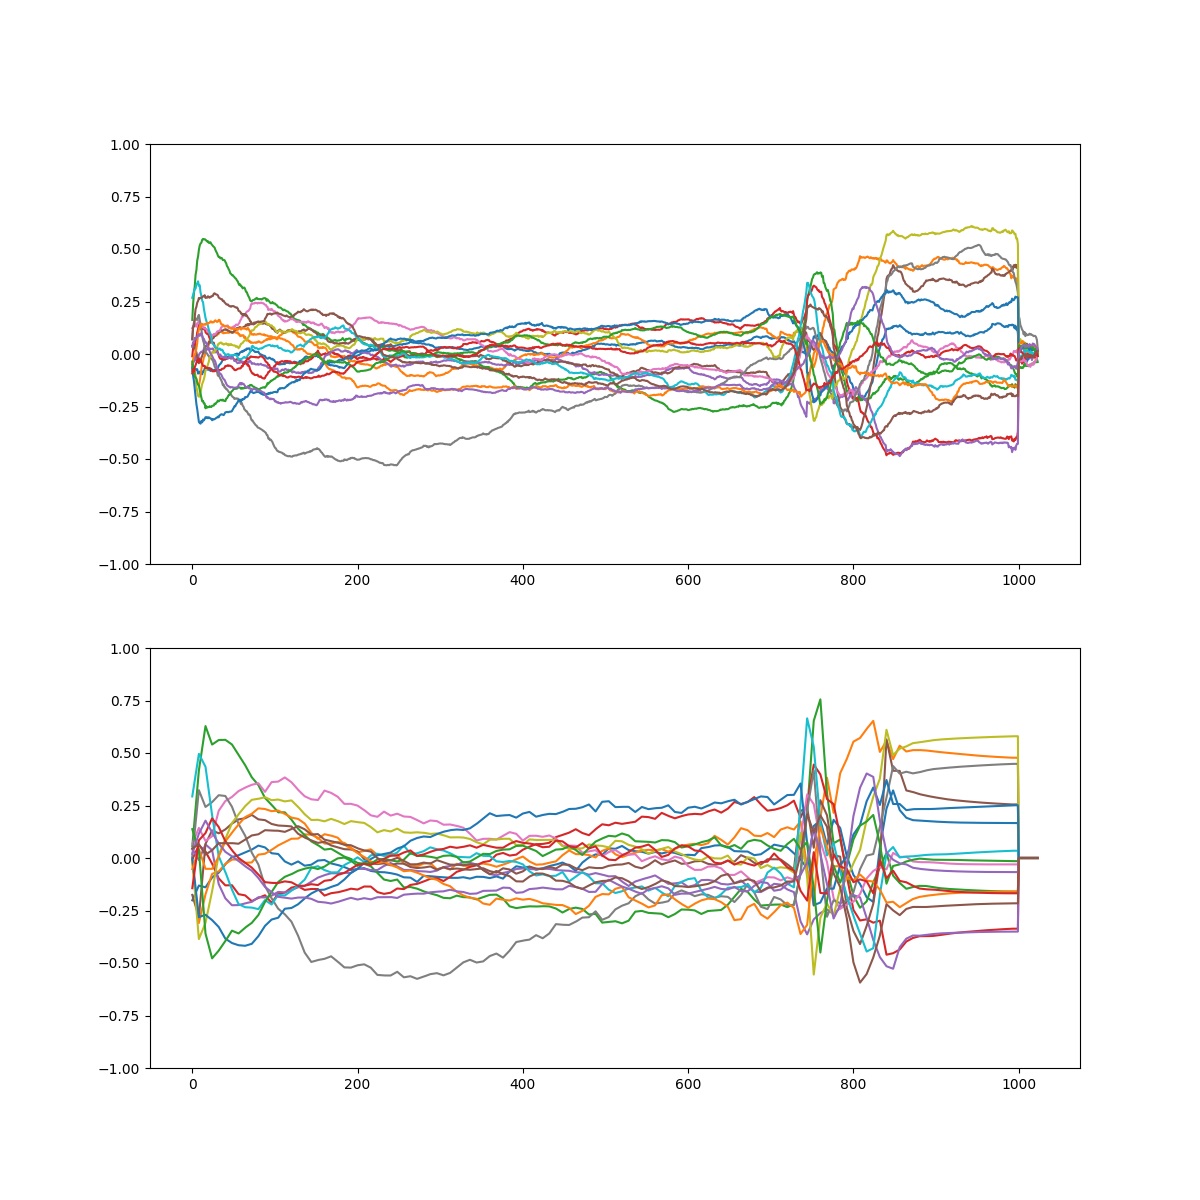
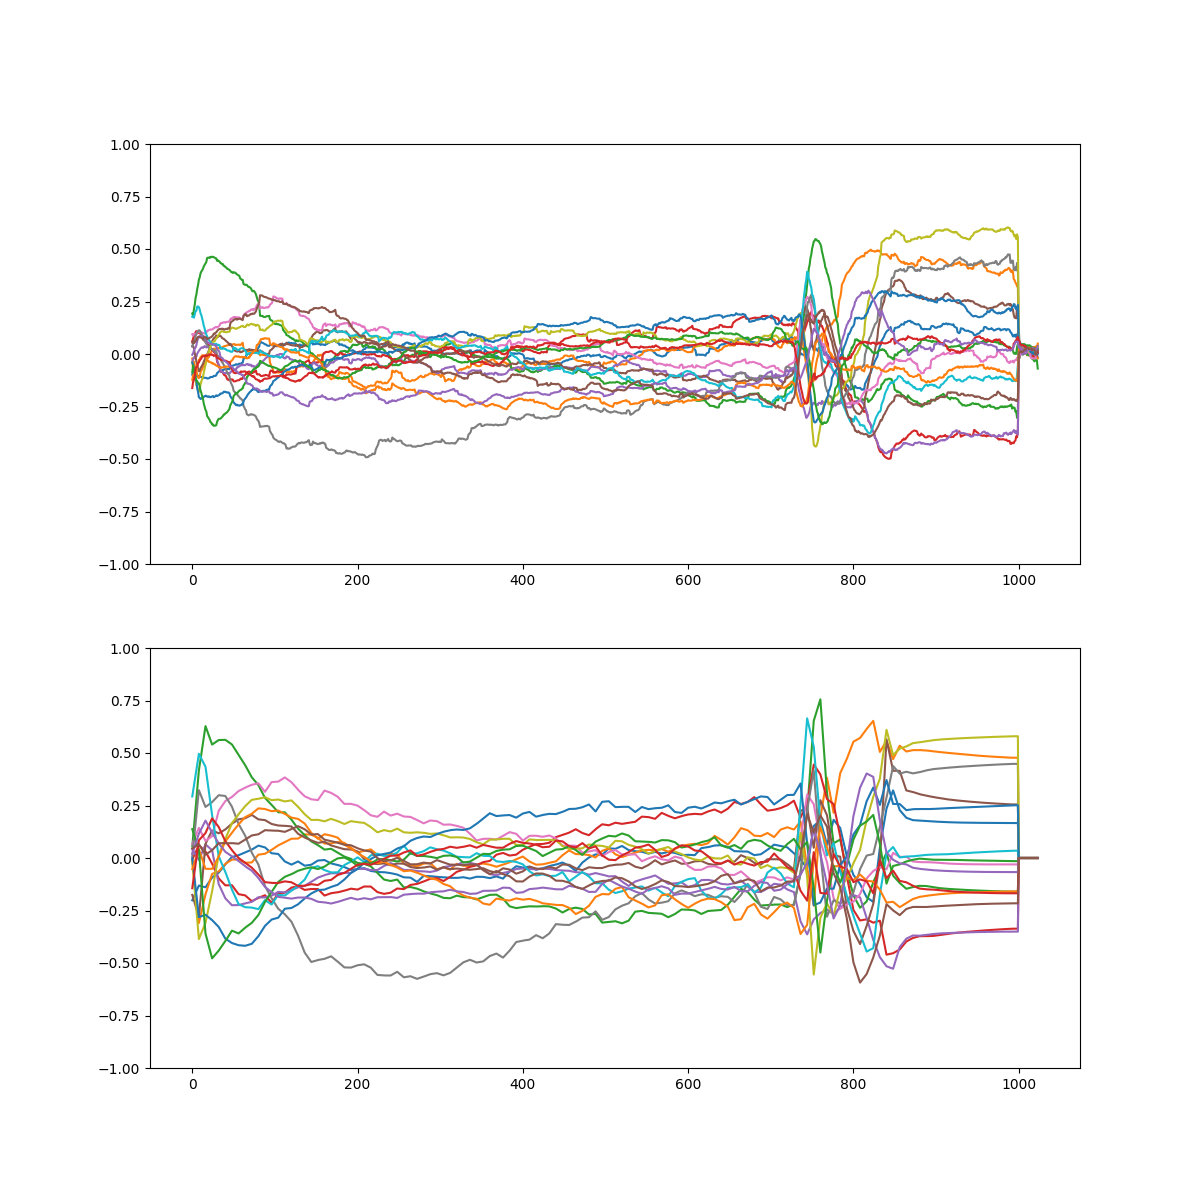
cond_vae z updated

Changed region(s): [[0.1542, 0.185, 0.8633, 0.4008], [0.2467, 0.37, 0.37, 0.4008]]

diff --git a/members/amit/cond_vae_z/model.py b/members/amit/cond_vae_z/model.py
@@ -11,17 +11,16 @@ def sample_from_latent_space(inputs):
 
 def create_encoder():
     encoder_input = tf.keras.layers.Input(shape=(input_size, output_dim), name="encoder_input")
+    x = tf.keras.layers.Lambda(lambda x: tf.expand_dims(x, axis=-1))(encoder_input)
 
-    x = encoder_input
-
-    filters = [32, 32, 64, 64, 128]
-    kernels = [7, 7, 5, 5, 3, 3]
+    filters = [32, 32, 64, 64]
+    kernels = [7,  7,  5,  5]
 
     for f, k in zip(filters, kernels):
-        x = tf.keras.layers.Conv1D(f, k, padding=padding)(x)
+        x = tf.keras.layers.Conv2D(f, k, padding=padding)(x)
         x = tf.keras.layers.BatchNormalization()(x)
         x = tf.keras.layers.Activation("tanh")(x)
-        x = tf.keras.layers.MaxPool1D(2)(x)
+        x = tf.keras.layers.MaxPool2D(2)(x)
 
     flattened = tf.keras.layers.Flatten()(x)
     hidden = tf.keras.layers.Dense(hidden_units, activation="relu")(flattened)
@@ -40,19 +39,20 @@ def create_decoder():
     inputs = tf.keras.layers.concatenate([z_input, note_number, instrument_id])
     hidden = tf.keras.layers.Dense(hidden_units, activation="relu")(inputs)
     up_input = tf.keras.layers.Dense(4096, activation="relu")(hidden)
-    x = tf.keras.layers.Reshape((32, 128))(up_input)
+    x = tf.keras.layers.Reshape((64, 1, 64))(up_input)
 
-    filters = reversed([32, 32, 64, 64, 128])
-    kernels = reversed([7, 7, 5, 5, 3, 3])
+    filters = reversed([32, 32, 64, 64])
+    kernels = reversed([7,  7,  5,  5])
 
     for f, k in zip(filters, kernels):
-        x = tf.keras.layers.UpSampling1D(2)(x)
-        x = tf.keras.layers.Conv1D(f, k, padding=padding)(x)
+        x = tf.keras.layers.UpSampling2D(2)(x)
+        x = tf.keras.layers.Conv2D(f, k, padding=padding)(x)
         x = tf.keras.layers.BatchNormalization()(x)
         x = tf.keras.layers.Activation("tanh")(x)
 
-    reconstructed = tf.keras.layers.Conv1D(output_dim, 3, padding=padding, activation="tanh")(x)
+    reconstructed = tf.keras.layers.Conv2D(1, 3, padding=padding, activation="tanh")(x)
+    squeezed = tf.keras.layers.Lambda(lambda x: tf.squeeze(x))(reconstructed)
     return tf.keras.models.Model(
         [z_input, note_number, instrument_id],
-        reconstructed, name="decoder"
+        squeezed, name="decoder"
     )

diff --git a/members/amit/cond_vae_z/dataset.py b/members/amit/cond_vae_z/dataset.py
@@ -4,6 +4,17 @@ import tensorflow as tf
 from tfrecord_provider import CompleteTFRecordProvider
 from config import *
 
+with open("instrument_id_map.csv", "r") as f:
+    rows = f.read().splitlines()
+    names = rows[0].split(",")
+    ids = [int(x) for x in rows[1].split(",")]
+    keys_tensor = tf.constant(names)
+    values_tensor = tf.constant(ids)
+    init = tf.lookup.KeyValueTensorInitializer(keys_tensor, values_tensor)
+
+num_instruments = len(ids)
+instrument_to_ids = tf.lookup.StaticHashTable(init, default_value=-1)
+
 
 def create_dataset(
         dataset_dir='nsynth_guitar',
@@ -40,12 +51,12 @@ def map_features(features):
     z = features['z']
     paddings = tf.constant([[0, 24], [0, 0]])
     z_sequence = tf.pad(tf.reshape(z, shape=(1000, output_dim)), paddings) / normalize_factor
-    sample_name = features['sample_name']
+    sample_name = tf.squeeze(features['sample_name'])
     note_number = features['note_number']
     note_number = tf.squeeze(tf.one_hot(note_number, depth=num_pitches))
-    instrument = tf.strings.substr(sample_name, pos=-11, len=3)
-    indices = tf.cast(tf.strings.to_number(instrument), dtype=tf.uint8)
-    instrument_id = tf.squeeze(tf.one_hot(indices, depth=num_classes))
+    instrument = tf.strings.substr(sample_name, pos=7, len=tf.strings.length(sample_name) - 15)
+    index = instrument_to_ids.lookup(instrument)
+    instrument_id = tf.squeeze(tf.one_hot(index, depth=num_instruments))
     return {
         'z_sequence': z_sequence,
         'note_number': note_number,

diff --git a/members/amit/cond_vae_z/config.py b/members/amit/cond_vae_z/config.py
@@ -1,7 +1,7 @@
 latent_dim = 4
 output_dim = 16
 input_size = 1024 # time steps
-num_classes = 100
+num_classes = 97
 num_pitches = 128
 hidden_units = 256
 batch_size = 16
